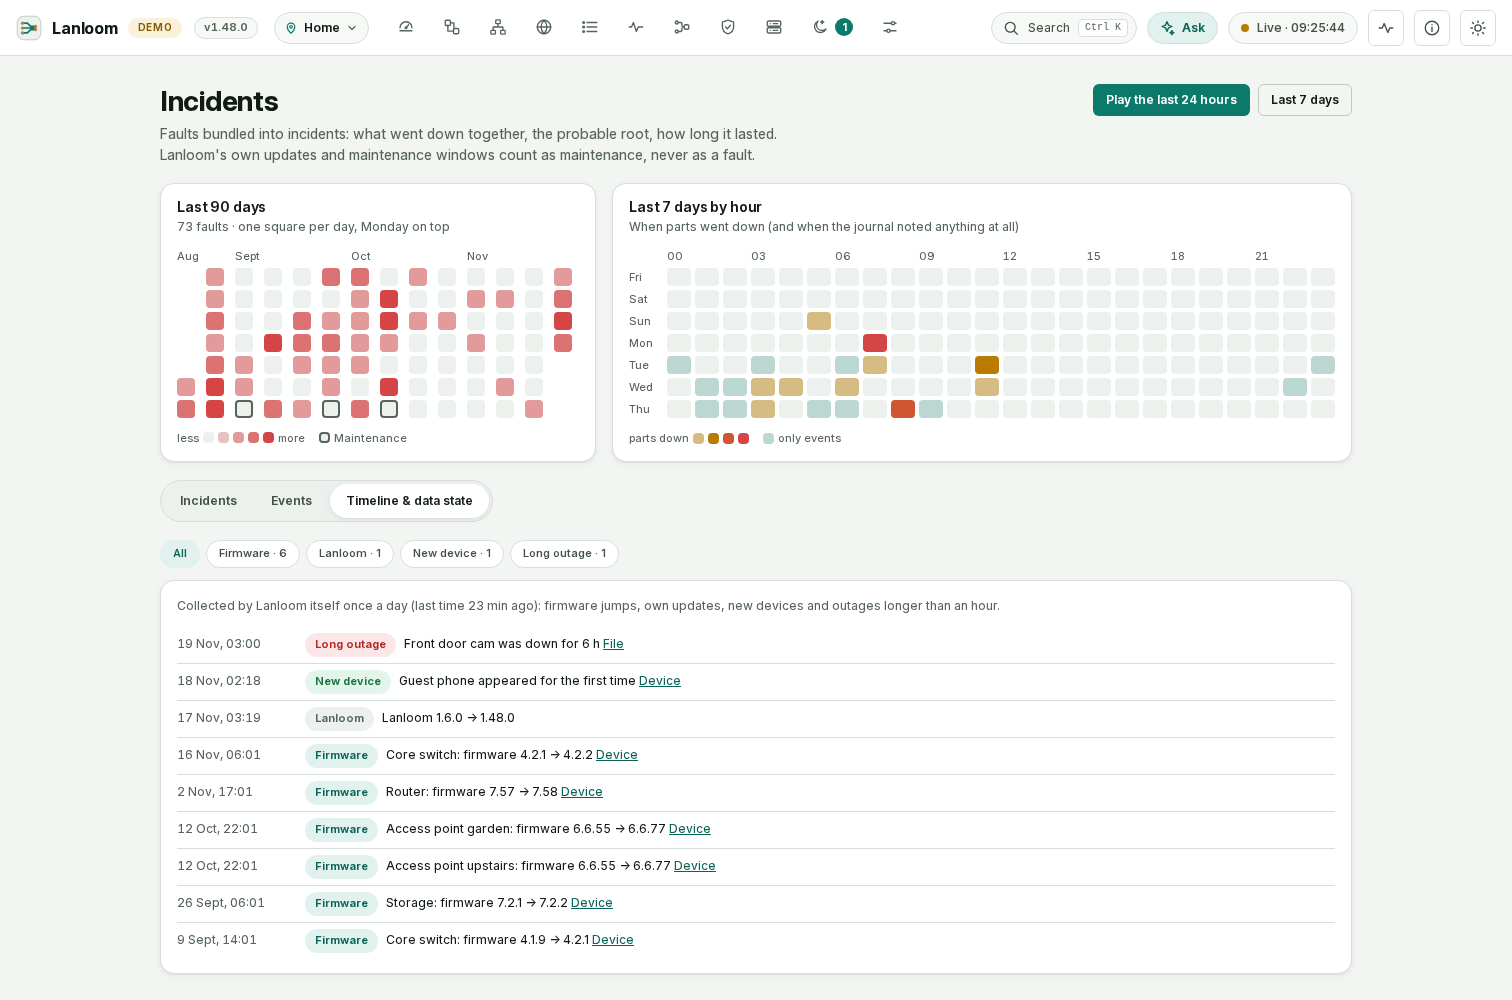
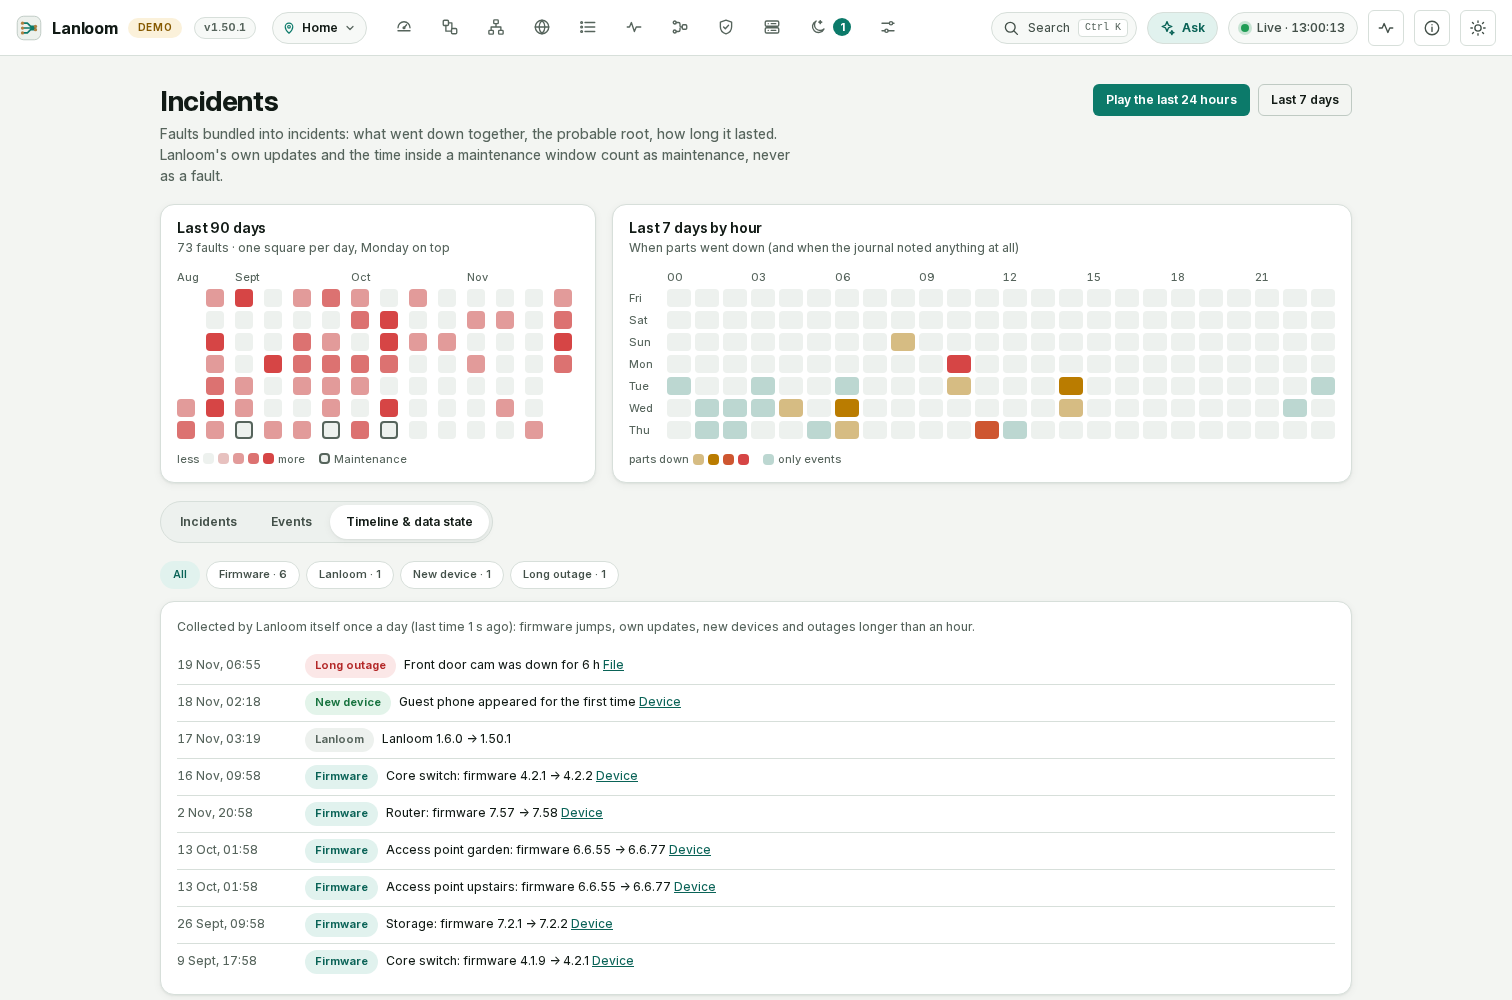
Release train fix: plan lines between rows of zones go around the pads, English incident texts without curly quotes and OS-name wording
- Plan export: a line between zones in different rows went up or down the column gap beside its start pad all the way to
  the other row and could cross the pads of the zones in the rows between (test_layout_puts_pads_in_zones_and_lines_in_the_gaps
  still red at random after the in-zone fix, step 1a of the 1.49.0 train; about 1 in 6 runs locally). It now stays inside the two
  zones, runs along the row gap and, with rows between, along the left margin. New test: 8 generated layouts with three or more
  rows; 300 further generated layouts and 12 runs of the sample test were clean. Plan screenshots renewed.
- Leak/brand check (step 3a of the 1.50.1 train): wording around maintenance windows in README, nightly report docs, manual,
  incidents texts and docstrings; straight quotes around the window name in English; a trace kind in a test; incident
  screenshots renewed.

diff --git a/lanloom/export_plan.py b/lanloom/export_plan.py
@@ -134,13 +134,34 @@ def build_scene(model: dict, tr: Callable, rd=None, title: str = "", sub: str = 
         bands.append((y, y + row_h))
     y += row_h
     width = max([MARGIN * 2 + PLAN_W] + [b["x"] + b["w"] + MARGIN for b in zones])
-    edges = _route(model.get("traces", []), pad_of)
+    edges = _route(model.get("traces", []), pad_of, bands)
     height = y + MARGIN + LEGEND_H
     return {"w": width, "h": height, "zones": zones, "pads": pads, "edges": edges, "title": title, "sub": sub, "legend_y": y + 14, "bands": bands}
 
 
-def _route(traces: list, pad_of: dict) -> list:
+def _route(traces: list, pad_of: dict, bands: Optional[list] = None) -> list:
+    """Orthogonal lines that cross no pad. Neighbours in one row: straight through the gap. One zone: through its column and row gaps
+    (``_route_in_zone``). Zones in one row of the plan: out of A into the column gap beside it, along the channel above the row, in at B.
+    Zones in different rows: the vertical parts stay inside A's and B's own zones (their column gaps hold no pad, and below a zone that is
+    shorter than its row there is nothing); between the two rows the line runs along the row gap, and when other rows lie between them,
+    down or up the left margin of the plan, which no zone reaches. ``bands`` are the (top, bottom) of the plan's rows."""
+    bands = list(bands or [])
+
+    def band_of(blk):
+        for i, (top, bottom) in enumerate(bands):
+            if top - 1 <= blk["y"] and blk["y"] + blk["h"] <= bottom + 1:
+                return i
+        return None
+
     lanes: dict = {}
+
+    def lane(key, n):
+        lanes[key] = lanes.get(key, -1) + 1
+        return lanes[key] % n
+
+    def gap_y(i):                                                # the row gap below row i (each line in it a little lower than the last)
+        return bands[i][1] + 9 + lane(("gap", i), 7) * 4.0
+
     out = []
     for t in traces:
         a, b = pad_of.get(t["a"]), pad_of.get(t["b"])
@@ -149,19 +170,27 @@ def _route(traces: list, pad_of: dict) -> list:
         kind = str(t.get("kind") or "lan")
         A, B = (a, b)
         ab, bb = A["block"], B["block"]
+        ia, ib = band_of(ab), band_of(bb)
         if ab is bb and abs(A["y"] - B["y"]) < 1 and abs(abs(A["x"] - B["x"]) - (PAD_W + GAP_X)) < 1:
             lo, hi = (A, B) if A["x"] < B["x"] else (B, A)        # neighbours in one row: a straight line through the gap between them
             pts = [(lo["x"] + lo["w"], lo["y"] + lo["h"] / 2), (hi["x"], hi["y"] + hi["h"] / 2)]
         elif ab is bb:
             pts = _route_in_zone(A, B)
-        else:                                                    # other zone: out of A to the right, along the channel above B's zone, in at B's left
-            key = id(bb)
-            lane = lanes[key] = lanes.get(key, -1) + 1
-            ch = bb["y"] - 9 - (lane % 7) * 4.0
-            rx = A["x"] + A["w"] + GAP_X / 2
-            lx = B["x"] - GAP_X / 2
+        else:
+            rx = A["x"] + A["w"] + GAP_X / 2                     # A's column gap (or zone padding) on its right
+            lx = B["x"] - GAP_X / 2                              # B's column gap (or zone padding) on its left
             ay, by_ = A["y"] + A["h"] / 2, B["y"] + B["h"] / 2
-            pts = [(A["x"] + A["w"], ay), (rx, ay), (rx, ch), (lx, ch), (lx, by_), (B["x"], by_)]
+            if ia is None or ib is None or ia == ib:             # same row of the plan: along the channel above it
+                ch = bb["y"] - 9 - lane(id(bb), 7) * 4.0
+                pts = [(A["x"] + A["w"], ay), (rx, ay), (rx, ch), (lx, ch), (lx, by_), (B["x"], by_)]
+            else:
+                ga = gap_y(ia - 1) if ib < ia else gap_y(ia)     # the row gap on A's side towards B
+                gb = gap_y(ib) if ib < ia else gap_y(ib - 1)     # the row gap on B's side towards A
+                if abs(ia - ib) == 1:                             # neighbouring rows: one gap between them
+                    pts = [(A["x"] + A["w"], ay), (rx, ay), (rx, ga), (lx, ga), (lx, by_), (B["x"], by_)]
+                else:                                             # rows between them: down or up the left margin
+                    cx = MARGIN - 8 - lane("margin", 4) * 4.0
+                    pts = [(A["x"] + A["w"], ay), (rx, ay), (rx, ga), (cx, ga), (cx, gb), (lx, gb), (lx, by_), (B["x"], by_)]
         out.append({"id": t["id"], "a": A["id"], "b": B["id"], "kind": kind, "pts": pts, "solid": kind in SOLID, "thick": kind in THICK})
     return out
 

diff --git a/tests/test_export.py b/tests/test_export.py
@@ -242,13 +242,36 @@ def test_lines_inside_one_zone_go_around_the_pads_between(n, span):
     comps.append({"id": "far", "zone": "y", "kind": "nas", "title": "Other zone"})
     ids = [c["id"] for c in comps[:n]]
     traces = [{"id": "t:%s:%s" % (a, b), "a": a, "b": b, "kind": "cable"} for a in ids for b in ids if a != b]
-    traces += [{"id": "t:%s:far" % a, "a": a, "b": "far", "kind": "wifi"} for a in ids]
+    traces += [{"id": "t:%s:far" % a, "a": a, "b": "far", "kind": "radio"} for a in ids]
     model = {"zones": [{"id": "z", "title": "Zone", "order": 1, "span": span}, {"id": "y", "title": "Other", "order": 2}], "components": comps,
              "traces": traces}
     sc = export_plan.build_scene(model, lambda key, v=None: key)
     assert len(sc["edges"]) == len(traces)
     cols = {p["x"] for p in sc["pads"] if p["zone"] == "z"}
     assert len(cols) >= 3                                                 # there really are pads between others in a row
+    assert_lines_cross_no_pad(sc)
+
+
+@pytest.mark.parametrize("seed", range(8))
+def test_lines_between_zones_in_other_rows_go_around_the_pads(seed):
+    """Lines between zones that the plan puts into different rows (adjacent rows and rows with others between them, both directions,
+    with and without a full-width zone on top): none crosses a pad. The cross-zone line used to go up or down the column gap beside its
+    start pad all the way to the target's row and crossed the pads of the zones in the rows between (step 1a red at random, depending on
+    how the sample data wrapped the zones)."""
+    import random
+    rnd = random.Random(seed)
+    zones, comps = [], []
+    if seed % 2:
+        zones.append({"id": "full", "title": "Full", "order": 0, "span": "full"})
+        comps += [{"id": "full%02d" % i, "zone": "full", "kind": "server", "title": "Full %02d" % i} for i in range(rnd.randint(2, 9))]
+    for z in range(rnd.randint(6, 10)):
+        zones.append({"id": "z%d" % z, "title": "Zone %d" % z, "order": z + 1})
+        comps += [{"id": "z%dc%02d" % (z, i), "zone": "z%d" % z, "kind": "iot", "title": "Pad %d %02d" % (z, i)} for i in range(rnd.randint(1, 14))]
+    ids = [c["id"] for c in comps]
+    traces = [{"id": "t:%s:%s" % (a, b), "a": a, "b": b, "kind": rnd.choice(("cable", "radio", "uplink"))}
+              for a in ids for b in ids if a != b and a.split("c")[0] != b.split("c")[0] and rnd.random() < 0.25]
+    sc = export_plan.build_scene({"zones": zones, "components": comps, "traces": traces}, lambda key, v=None: key)
+    assert len(sc["edges"]) == len(traces) and len(sc["bands"]) >= 3       # there really are rows with others between them
     assert_lines_cross_no_pad(sc)
 
 

diff --git a/lanloom/incidents.py b/lanloom/incidents.py
@@ -11,7 +11,7 @@ Sources, all Lanloom's own (nothing here talks to the network):
 * the **dependency graph** (lanloom/failure.py) bundles episodes that started together: a member that sits in the
   failure chain of another member hangs on it (``sure`` or ``likely``, with the reason of the edge); what is left are
   the roots. Several unrelated roots at the same time point at what they share upstream (``likely``, reason ``shared``).
-* **maintenance windows** of the notifications (N1, ``notify.maintenance_at``) and the user's own mark on a file.
+* **a maintenance window** of the notifications (N1, ``notify.maintenance_at``) and the user's own mark on a file.
 
 Kinds: ``maintenance`` (window, own update, or marked by a person), ``flapping`` (``FLAP_RUNS`` or more runs in one
 episode), ``blip`` (one short run up to ``BLIP_S``), ``outage`` (the rest). Phones and computers come and go: they never

diff --git a/lanloom/incidents_report.py b/lanloom/incidents_report.py
@@ -3,7 +3,7 @@
 Rule based (lanloom/incidents.py): one line per incident with its probable root, how many parts hung on it, when it
 started and how long it lasted. An incident that is still open is a point to look at; an outage that ended is a point
 when it took longer than ``POINT_S`` or took others with it, otherwise a note; blips, flapping and maintenance (own
-updates, maintenance windows, marked by a person) are notes. The section is left out when the slots hold nothing yet or
+updates, a maintenance window, marked by a person) are notes. The section is left out when the slots hold nothing yet or
 there was no incident in the window. Texts are i18n keys."""
 from .nightly.contrib import Contribution, _short, item, register, section
 

diff --git a/docs/NIGHTLY-REPORT.md b/docs/NIGHTLY-REPORT.md
@@ -35,7 +35,7 @@ At the top one line: **All quiet**, or **N things need a look**. Below it one se
 | DNS filter | only while a [DNS filter](DNS-FILTER.md) is connected: the filter does not answer, blocking is switched off, the name server is not running, the upstream resolvers do not answer, no query at all for three hours although there usually are some, an unusual blocked share (24 hours against the median of the days before), block lists older than three weeks; a quiet night is one line | any of these |
 | Switch ports | only when a switch controller is read: ports with link drops or error episodes in the period (three or more is a point, fewer a plain note) and how often wireless devices moved between access points | a port had three or more link drops or error episodes |
 | Hosts and containers | only with a [host agent or container source](HOST-AGENT.md): how many report, agents silent for more than 90 seconds, failed services and timers whose last run failed (names bundled per host), unhealthy or restarting containers, an agent whose version differs from Lanloom's (with the image to pull), a disk fuller than 90 % and memory above 95 %; the summary has counts only | an agent is silent, a service failed or a timer's last run failed, a container is unhealthy or restarting, a disk is over 90 % full |
-| Incidents of the night | only once the availability history exists and an incident started or was still open in the report window ([details](manual/incidents.md)): per incident the probable root, how many parts went with it, when and how long; maintenance (windows, own updates, marked by a person) and blips are notes | an incident is still open, or an outage lasted 15 minutes or more or took other parts with it |
+| Incidents of the night | only once the availability history exists and an incident started or was still open in the report window ([details](manual/incidents.md)): per incident the probable root, how many parts went with it, when and how long; maintenance (a maintenance window, own updates, marked by a person) and blips are notes | an incident is still open, or an outage lasted 15 minutes or more or took other parts with it |
 | Failure chains | only when a device went offline that something depended on, or a dependency entered by hand points at something Lanloom no longer knows: per outage how many parts depended on it, among them how many automations ([details](manual/failure-chain.md)) | the device is still down, or an entry points at something unknown (one that came back is a note) |
 | Certificates | TLS certificates of the addresses Lanloom connects to (hub, controller, broker, adapters) and of the TLS services of the devices ([details](SERVICES.md#the-certificate-clock)) | a certificate expires within 14 days or has expired (under 30 days is a note) |
 | AI | only when AI is set up: requests answered per day (local and cloud), the daily limit for cloud requests if it was reached, failed requests, new suggestions for unknown devices that wait for a decision | the limit was reached, or requests failed and none succeeded |

diff --git a/CHANGELOG.md b/CHANGELOG.md
@@ -16,6 +16,8 @@ All notable changes to this project are documented here. The format follows [Kee
 
 ### Fixed
 - Sample network: the three dropouts of the flapping speaker were placed by hours before now, so depending on the minute the history was created they could land in adjacent slots and merge into one outage; the sample incident test failed at random (it broke the image build of a release train). They are now whole slots with one good slot between, and a test covers every phase of the clock.
+- Plan export (SVG, PDF, draw.io): a line between zones in different rows of the plan went up or down the column gap beside its start pad all the way to the other row and could run across the pads of the zones in the rows between. It now stays inside the two zones, runs along the gap between the rows and, when other rows lie between them, along the left margin of the plan, which no zone reaches; a test with 8 generated layouts (adjacent rows, rows between, a full-width zone on top) covers it. The plan screenshots are renewed.
+- English texts of the incident files: no curly quotation marks around the name of a maintenance window, and the wording around the maintenance window (incidents page, About this view, nightly report docs, manual) follows the product's style rules; incident screenshots renewed.
 
 ## [1.50.1] – 2026-11-19
 

diff --git a/README.md b/README.md
@@ -564,7 +564,7 @@ Press **Rewind** above the map (or `R`) and the last 24 hours play back on the b
 minute, the tiles show what was down; `Space` pauses, `1`-`4` set 60x to 3600x, `W` switches to 7 days, `Esc` goes back
 to live, and the palette understands *rewind to 14:30*. Faults are bundled into **incident files**: devices that went down
 together are listed under the part they hang on in the failure chain (sure or probably), with the kind (outage, flapping,
-blip, maintenance - Lanloom's own updates and maintenance windows never count as faults), what changed before, the
+blip, maintenance - Lanloom's own updates and a maintenance window never count as faults), what changed before, the
 timeline, the measurements and how it healed. A 90-day calendar, a 7-day heatmap by hour, the event chronicle and a
 *Timeline & data state* (firmware jumps, own updates, new devices, long outages) answer "when does this happen?". The
 nightly report has a section *Incidents of the night*. See the [manual page](docs/manual/incidents.md).

diff --git a/docs/manual/incidents.md b/docs/manual/incidents.md
@@ -102,5 +102,5 @@ operator role and lands in the [audit log](settings.md) (action `incident.mark`)
 - [Failure chain and outages](failure-chain.md) - the dependency graph the bundling uses
 - [Availability and stability](../AVAILABILITY.md) - the 5-minute slots
 - [Nightly report](../NIGHTLY-REPORT.md) - the section *Incidents of the night*
-- [Notifications](../NOTIFICATIONS.md) - maintenance windows
+- [Notifications](../NOTIFICATIONS.md) - planning a maintenance window
 - [Command palette](../PALETTE.md) - *Rewind to …*
